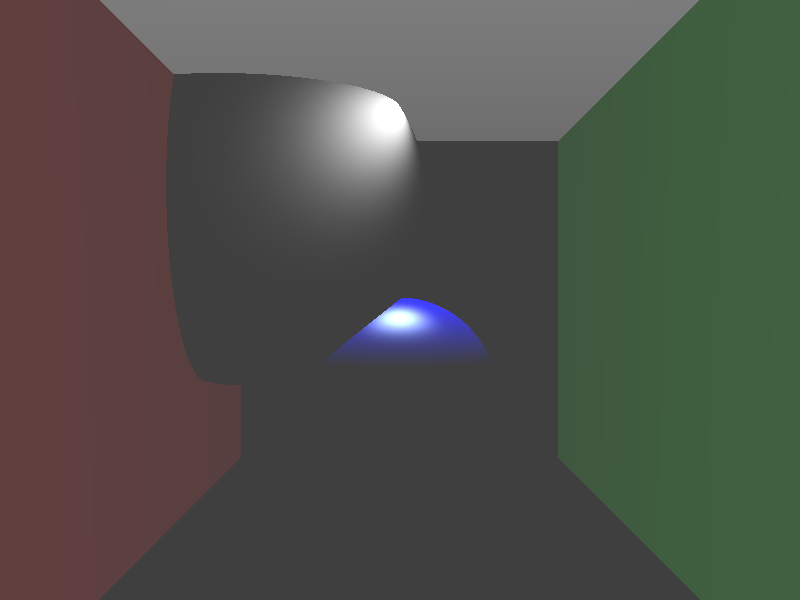
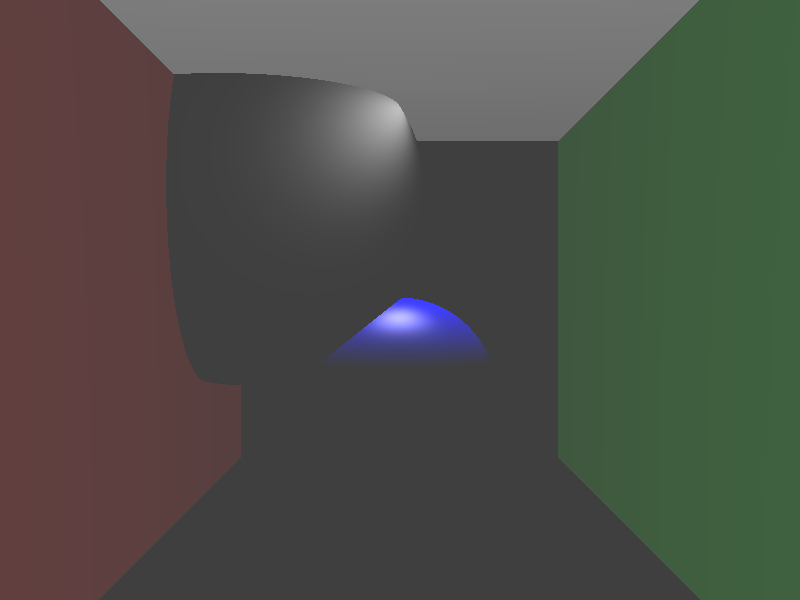
Adding separate Material classes

Changed region(s): [[0.375, 0.12, 0.5312, 0.33], [0.4688, 0.51, 0.5625, 0.57]]

diff --git a/VCG_Raytracer/src/scene/materials/Material.java b/VCG_Raytracer/src/scene/materials/Material.java
@@ -5,66 +5,34 @@ import utils.Log;
 import utils.RgbColor;
 import utils.Vec3;
 
-public class Material {
+public abstract class Material {
 
     public RgbColor ambient;
-    private RgbColor mDiffuse;
-    private RgbColor mSpecular;
-    private RgbColor mDiffCoeff;
-    private RgbColor mSpecCoeff;
+    protected RgbColor diffCoeff;
+    protected RgbColor specCoeff;
 
-    private float mShininess;
+    protected float shininess;
 
-    public static int PHONG = 0;
-    public static int BLINN = 1;
-    public static int LAMBERT = 2;
+    private String mType;
 
-    private int mType;
-
-    public Material(RgbColor ambientColor, RgbColor diffuseCoefficient, RgbColor specularCoefficient, float shininess, int type){
+    protected Material(RgbColor ambientColor, RgbColor diffuseCoefficient, RgbColor specularCoefficient, float shininess, String type){
         Log.print(this, "Init " + type);
 
         this.ambient = ambientColor;
-        mShininess = shininess;
-
-        mDiffCoeff = diffuseCoefficient;
-        mSpecCoeff = specularCoefficient;
-
-        mDiffuse = new RgbColor(0,0,0);
-        mSpecular = new RgbColor(0,0,0);
+        this.diffCoeff = diffuseCoefficient;
+        this.specCoeff = specularCoefficient;
+        this.shininess = shininess;
 
         mType = type;
     }
 
-    public RgbColor getColor(Light light, Vec3 normal, Vec3 vertexPos, Vec3 camPos) {
-
-        if(mType == PHONG){
-            return getPhongColor(light, normal, camPos, vertexPos);
-        }
-        if(mType == BLINN){
-            return getBlinnColor(light, normal, camPos, vertexPos);
-        }
-        if(mType == LAMBERT){
-            return getLambertColor(light, normal, camPos, vertexPos);
-        }
-        return new RgbColor(0,0,0);
+    public String isType(){
+        return mType;
     }
 
-    private RgbColor getBlinnColor(Light light, Vec3 normal, Vec3 camPos, Vec3 vertexPos) {
-        return this.ambient;
-    }
+    public abstract RgbColor getColor(Light light, Vec3 normal, Vec3 vertexPos, Vec3 camPos);
 
-    private RgbColor getLambertColor(Light light, Vec3 normal, Vec3 camPos, Vec3 vertexPos) {
-
-        Vec3 normalN = normal.normalize();
-
-        Vec3 lightVecN = (light.getPosition().sub(vertexPos)).normalize();
-        float angle = clampAngle(normalN.scalar(lightVecN));
-
-        return calculateDiffuseColor(light.getColor(), angle);
-    }
-
-    private float clampAngle(float angle){
+    protected float clampAngle(float angle){
         if(angle > 1f){
             return 1f;
         }
@@ -74,34 +42,22 @@ public class Material {
         return angle;
     }
 
-    private RgbColor getPhongColor(Light light, Vec3 normal, Vec3 camPos, Vec3 vertexPos){
-        Vec3 normalN = normal.normalize();
-
-        Vec3 lightVecN = (light.getPosition().sub(vertexPos)).normalize();
-        float angle = clampAngle(normalN.scalar(lightVecN));
-
-        mDiffuse = calculateDiffuseColor(light.getColor(), angle);
-        mSpecular = calculateSpecularColor(normalN, lightVecN, light.getColor(), vertexPos, camPos, angle);
-
-        return mDiffuse.add(mSpecular);
-    }
-
-    private RgbColor calculateSpecularColor(Vec3 normalN, Vec3 lightVecN, RgbColor lightColor, Vec3 position, Vec3 camPosition, float angle) {
+    protected RgbColor calculateSpecularColor(Vec3 normalN, Vec3 lightVecN, RgbColor lightColor, Vec3 position, Vec3 camPosition, float angle) {
         Vec3 viewVecN = camPosition.sub(position).normalize();
 
         Vec3 reflectN = normalN.multScalar(2 * angle);
         reflectN = reflectN.sub(lightVecN);
 
         float specAngle = reflectN.scalar(viewVecN);
-        float specFactor = (float) Math.pow(specAngle, mShininess);
+        float specFactor = (float) Math.pow(specAngle, shininess);
 
-        return mSpecCoeff
+        return this.specCoeff
                 .multScalar(lightColor)
                 .multScalar(specFactor);
     }
 
-    private RgbColor calculateDiffuseColor(RgbColor lightColor, float angle){
-        return mDiffCoeff
+    protected RgbColor calculateDiffuseColor(RgbColor lightColor, float angle){
+        return this.diffCoeff
                 .multScalar(lightColor)
                 .multScalar(angle);
     }

diff --git a/VCG_Raytracer/src/Main.java b/VCG_Raytracer/src/Main.java
@@ -24,7 +24,9 @@
 ~~~~~~~~~~~~~~~~~~~~~~~~~~~~~~~~~~~~~~~~~~~~~~~~~~~~~~~~~~~~~*/
 
 import raytracer.Raytracer;
+import scene.materials.LambertMaterial;
 import scene.materials.Material;
+import scene.materials.PhongMaterial;
 import scene.shapes.Plane;
 import ui.Window;
 import scene.Scene;
@@ -90,18 +92,18 @@ public class Main {
 
     private static void setupObjects(Scene renderScene) {
         // Materials: Ambient Color, Diffuse Coeeff, Specular Coeff, Shininess, Material
-        Material sphereMaterial1 = new Material(AMBIENT_COLOR, RgbColor.MAGENTA, RgbColor.WHITE, 10, Material.PHONG);
-        Material sphereMaterial2 = new Material(AMBIENT_COLOR, RgbColor.BLUE, new RgbColor(0.8f,1.0f,0.8f), 10, Material.PHONG);
+        Material sphereMaterial1 = new PhongMaterial(AMBIENT_COLOR, RgbColor.MAGENTA, RgbColor.GRAY, 10);
+        Material sphereMaterial2 = new PhongMaterial(AMBIENT_COLOR, RgbColor.BLUE, RgbColor.GRAY, 10);
 
         renderScene.createSphere(new Vec3(-0.8f, 0.5f, 0), sphereMaterial1, 0.1f);
         renderScene.createSphere(new Vec3(0f, -0.5f, 0f), sphereMaterial2, 0.1f);
     }
 
     private static void setupCornellBox(Scene renderScene) {
-        // Materials: Ambient Color, Diffuse Coeeff, Specular Coeff, Shininess, Material
-        Material planeMaterial = new Material(RgbColor.BLACK, RgbColor.WHITE, RgbColor.BLACK, 10, Material.LAMBERT);
-        Material planeMaterialLeft = new Material(RgbColor.BLACK, RgbColor.RED, RgbColor.BLACK, 10, Material.LAMBERT);
-        Material planeMaterialRight = new Material(RgbColor.BLACK, RgbColor.GREEN, RgbColor.BLACK, 10, Material.LAMBERT);
+        // Materials: Ambient Color, Diffuse Coeeff
+        Material planeMaterial = new LambertMaterial(RgbColor.BLACK, RgbColor.WHITE);
+        Material planeMaterialLeft = new LambertMaterial(RgbColor.BLACK, RgbColor.RED);
+        Material planeMaterialRight = new LambertMaterial(RgbColor.BLACK, RgbColor.GREEN);
 
         renderScene.createPlane(new Vec3( 1f, 0f, 0 ), planeMaterialLeft, Plane.FACING_LEFT);
         renderScene.createPlane(new Vec3( -1f, 0f, 0 ), planeMaterialRight, Plane.FACING_RIGHT);

diff --git a/VCG_Raytracer/src/scene/materials/PhongMaterial.java b/VCG_Raytracer/src/scene/materials/PhongMaterial.java
@@ -1,0 +1,27 @@
+package scene.materials;
+
+import scene.lights.Light;
+import utils.Log;
+import utils.RgbColor;
+import utils.Vec3;
+
+public class PhongMaterial extends Material {
+
+
+    public PhongMaterial(RgbColor ambientColor, RgbColor diffuseCoefficient, RgbColor specularCoefficient, float shininess) {
+        super(ambientColor, diffuseCoefficient, specularCoefficient, shininess, "PHONG");
+    }
+
+    @Override
+    public RgbColor getColor(Light light, Vec3 normal, Vec3 vertexPos, Vec3 camPos) {
+        Vec3 normalN = normal.normalize();
+
+        Vec3 lightVecN = (light.getPosition().sub(vertexPos)).normalize();
+        float angle = clampAngle(normalN.scalar(lightVecN));
+
+        RgbColor diffuse = this.calculateDiffuseColor(light.getColor(), angle);
+        RgbColor specular = this.calculateSpecularColor(normalN, lightVecN, light.getColor(), vertexPos, camPos, angle);
+
+        return diffuse.add(specular);
+    }
+}

diff --git a/VCG_Raytracer/src/scene/materials/LambertMaterial.java b/VCG_Raytracer/src/scene/materials/LambertMaterial.java
@@ -1,0 +1,21 @@
+package scene.materials;
+
+import scene.lights.Light;
+import utils.RgbColor;
+import utils.Vec3;
+
+public class LambertMaterial  extends Material {
+    public LambertMaterial(RgbColor ambientColor, RgbColor diffuseCoefficient) {
+        super(ambientColor, diffuseCoefficient, null, 0, "LAMBERT");
+    }
+
+    @Override
+    public RgbColor getColor(Light light, Vec3 normal, Vec3 vertexPos, Vec3 camPos) {
+        Vec3 normalN = normal.normalize();
+
+        Vec3 lightVecN = (light.getPosition().sub(vertexPos)).normalize();
+        float angle = clampAngle(normalN.scalar(lightVecN));
+
+        return this.calculateDiffuseColor(light.getColor(), angle);
+    }
+}

diff --git a/VCG_Raytracer/src/scene/materials/BlinnMaterial.java b/VCG_Raytracer/src/scene/materials/BlinnMaterial.java
@@ -1,0 +1,17 @@
+package scene.materials;
+
+
+import scene.lights.Light;
+import utils.RgbColor;
+import utils.Vec3;
+
+public class BlinnMaterial extends Material {
+    public BlinnMaterial(RgbColor ambientColor, RgbColor diffuseCoefficient, RgbColor specularCoefficient, float shininess, int type) {
+        super(ambientColor, diffuseCoefficient, specularCoefficient, shininess, "BLINN");
+    }
+
+    @Override
+    public RgbColor getColor(Light light, Vec3 normal, Vec3 vertexPos, Vec3 camPos) {
+        return this.ambient;
+    }
+}
